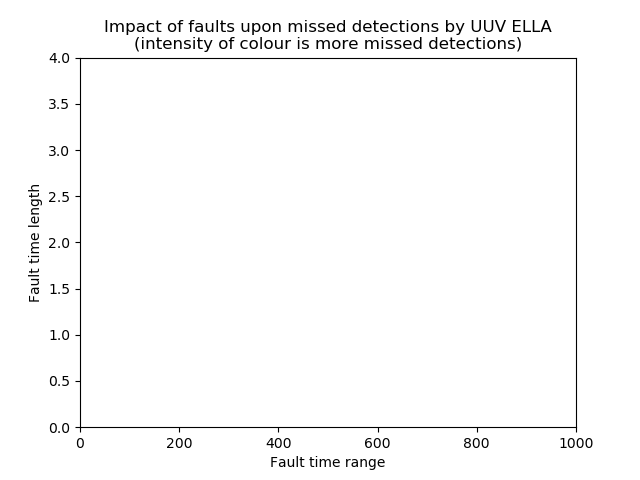
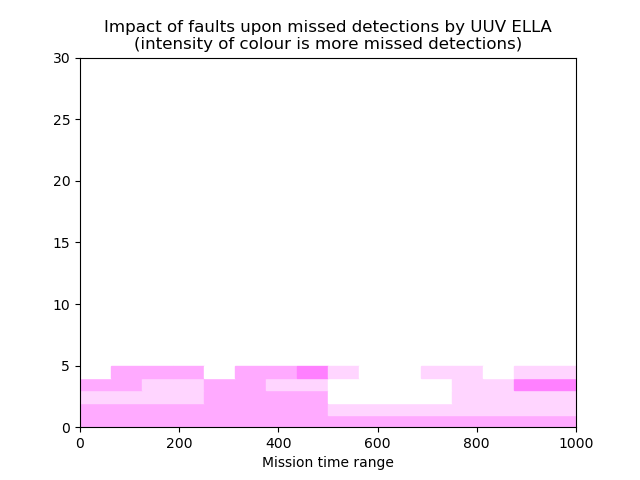
Changes for the avoidance logging, and heading fault

diff --git a/middleware-java/src/atlasdsl/loader/GeneratedDSLLoader.java b/middleware-java/src/atlasdsl/loader/GeneratedDSLLoader.java
@@ -141,7 +141,7 @@ public class GeneratedDSLLoader implements DSLLoader {
 		GoalTemporalConstraints gt1 = new GoalTemporalConstraints(0.0, 1000.0);
 		
 		
-		GoalAction ga1 = new AvoidOthers(3.0);
+		GoalAction ga1 = new AvoidOthers(15.0);
 		
 		
 		GoalRegion grmutualAvoidance = new StaticGoalRegion(
@@ -268,7 +268,7 @@ public class GeneratedDSLLoader implements DSLLoader {
 	
 	FaultImpact fi2;
 	try {	
-		fi2 = new MotionFault(srgilda_3, "UP_HEADING", "heading=153");
+		fi2 = new MotionFault(srella_2, "UP_HEADING", "heading=180");
 	} catch (InvalidComponentType e) {
 		throw new DSLLoadFailed("MotionFault 2 is not using a MotionSource as its affected component");
 	}
@@ -277,7 +277,7 @@ public class GeneratedDSLLoader implements DSLLoader {
 	
 	FaultTimeProperties ft2 = new FaultTimeProperties(0.0, 1000.0, 1000.0, 1, 0.8); 
 	
-	Fault f2 = new Fault("HEADINGFAULT", fi2, Optional.empty(), ft2);
+	Fault f2 = new Fault("HEADINGFAULT-ELLA", fi2, Optional.empty(), ft2);
 	mission.addFault(f2);
 	
 	
@@ -327,6 +327,54 @@ public class GeneratedDSLLoader implements DSLLoader {
 	
 	Fault f5 = new Fault("SPEEDFAULT-HENRY", fi5, Optional.empty(), ft5);
 	mission.addFault(f5);
+	
+	
+	
+	FaultImpact fi6;
+	try {	
+		fi6 = new MotionFault(srfrank_3, "UP_HEADING", "heading=153");
+	} catch (InvalidComponentType e) {
+		throw new DSLLoadFailed("MotionFault 6 is not using a MotionSource as its affected component");
+	}
+	
+	
+	
+	FaultTimeProperties ft6 = new FaultTimeProperties(0.0, 1000.0, 1000.0, 1, 0.8); 
+	
+	Fault f6 = new Fault("HEADINGFAULT-FRANK", fi6, Optional.empty(), ft6);
+	mission.addFault(f6);
+	
+	
+	
+	FaultImpact fi7;
+	try {	
+		fi7 = new MotionFault(srgilda_3, "UP_HEADING", "heading=350");
+	} catch (InvalidComponentType e) {
+		throw new DSLLoadFailed("MotionFault 7 is not using a MotionSource as its affected component");
+	}
+	
+	
+	
+	FaultTimeProperties ft7 = new FaultTimeProperties(0.0, 1000.0, 1000.0, 1, 0.8); 
+	
+	Fault f7 = new Fault("HEADINGFAULT-GILDA", fi7, Optional.empty(), ft7);
+	mission.addFault(f7);
+	
+	
+	
+	FaultImpact fi8;
+	try {	
+		fi8 = new MotionFault(srhenry_3, "UP_HEADING", "heading=153");
+	} catch (InvalidComponentType e) {
+		throw new DSLLoadFailed("MotionFault 8 is not using a MotionSource as its affected component");
+	}
+	
+	
+	
+	FaultTimeProperties ft8 = new FaultTimeProperties(0.0, 1000.0, 1000.0, 1, 0.8); 
+	
+	Fault f8 = new Fault("HEADINGFAULT-HENRY", fi8, Optional.empty(), ft8);
+	mission.addFault(f8);
 	
 	return mission;
 	}

diff --git a/middleware-java/src/atlasdsl/AvoidOthers.java b/middleware-java/src/atlasdsl/AvoidOthers.java
@@ -10,16 +10,30 @@ import middleware.core.ATLASCore;
 public class AvoidOthers extends GoalAction {
 	private double clearance;
 	
+	public class ViolationRecord {
+		private Point loc1;
+		private Point loc2;
+		private Robot r1;
+		private Robot r2;
+		private double clearance;
+		
+		public ViolationRecord(Point loc1, Point loc2, Robot r1, Robot r2, double clearance) {
+			this.loc1 = loc1;
+			this.loc2 = loc2;
+			this.r1 = r1;
+			this.r2 = r2;
+			this.clearance = clearance;
+		}
+		
+	}
+	
 	public AvoidOthers(double clearance) {
 		this.clearance = clearance;
 	}
 
 	// TODO: Specific log for the computation of each goal?
-	private Optional<Double> testDistances(List<Robot> robots) throws MissingProperty {
+	private Optional<ViolationRecord> testDistances(List<Robot> robots) throws MissingProperty {
 		double clearanceSqr = clearance * clearance;
-		//System.out.println("clearanceSqr=" + clearanceSqr);
-		Optional<Robot> failed1;
-		Optional<Robot> failed2;
 		for (Robot r_i : robots) {
 			for (Robot r_j : robots) {
 				if (r_i != r_j) {
@@ -28,9 +42,8 @@ public class AvoidOthers extends GoalAction {
 					double distSqr = loc1.distanceSqrTo(loc2);
 					//System.out.println("loc1 = " + r_i + "loc2 = " + r_j + " dist_sqr = " + distSqr);
 					if (distSqr < clearanceSqr) {
-						failed1 = Optional.of(r_i);
-						failed2 = Optional.of(r_j);
-						return Optional.of(Math.sqrt(distSqr));
+						ViolationRecord vr = new ViolationRecord(loc1, loc2, r_i, r_j);
+						return Optional.of(vr);
 					}
 				}
 			}
@@ -43,8 +56,8 @@ public class AvoidOthers extends GoalAction {
 		try {
 			// If the result is present, that means the clearance
 			// exceeded the minimum allowed 
-			Optional<Double> res = testDistances(robots);
-			if (res.isPresent()) {
+			Optional<Double> vr = testDistances(robots);
+			if (vr.isPresent()) {
 				Double clearanceFound = res.get();
 				// This goal only returns a VIOLATED status, or it returns Empty
 				GoalResult gr = new GoalResult(GoalResultStatus.VIOLATED);

diff --git a/middleware-java/src/moosmapping/PHelmIvpProcess.java b/middleware-java/src/moosmapping/PHelmIvpProcess.java
@@ -38,6 +38,8 @@ public class PHelmIvpProcess extends MOOSProcess {
 		moosBehaviourInitVals.put("RETURN", false);
 		moosBehaviourInitVals.put("STATION_KEEP", false);
 		moosBehaviourInitVals.put("LOITER", true);
+		moosBehaviourInitVals.put("CONSTHEADING", false);
+		
 		// TODO: this should be conditionally set if an avoidance goal is present
 		moosBehaviourInitVals.put("AVOID", true);
 				
@@ -59,8 +61,12 @@ public class PHelmIvpProcess extends MOOSProcess {
 		msd4.setProperty("MODE", "ACTIVE");
 		msd4.setProperty("LOITER", true);
 		setModeProperties.put("LOITERING", msd4);
-	} 
-
+		
+		MOOSSetModeDetails msd5 = new MOOSSetModeDetails("CONSTHEADING");
+		msd5.setProperty("MODE", "ACTIVE");
+		msd5.setProperty("CONSTHEADING", true);
+		setModeProperties.put("CONSTHEADING", msd5);
+	}
 	
 	private void setupBehaviours(String vehicleName, Point startPos) {
 		String startPosAsString = startPos.toString();
@@ -77,5 +83,7 @@ public class PHelmIvpProcess extends MOOSProcess {
 		addBehaviour(new HelmBehaviourAvoidance(this, vehicleName));
 		addBehaviour(new HelmBehaviourStationKeep(this));
 		addBehaviour(new HelmBehaviourWaypoint(this, vehicleName, startPos, waypointSpeed, waypointRadius, waypointNMRadius));
+		addBehaviour(new HelmBehaviourConstantHeading(this));
+		addBehaviour(new HelmBehaviourConstantSpeed(this));
 	}
 }

diff --git a/middleware-java/src/middleware/missionmonitor/MissionMonitor.java b/middleware-java/src/middleware/missionmonitor/MissionMonitor.java
@@ -1,11 +1,13 @@
 package middleware.missionmonitor;
 
+import java.util.HashMap;
 import java.util.Optional;
 
 import atlasdsl.*;
 import atlasdsl.GoalResult.GoalResultStatus;
 import atlassharedclasses.SonarDetection;
 import middleware.core.*;
+import middleware.logging.ATLASLog;
 
 public class MissionMonitor {
 	private class MissionMonitorSetupFailure extends Exception {
@@ -14,6 +16,7 @@ public class MissionMonitor {
 	
 	private Mission mission;
 	private ATLASCore core;
+	private HashMap<Goal,Double> violationsTime = new HashMap<Goal,Double>(); 
 	
 	public MissionMonitor(ATLASCore core, Mission mission) {
 		this.mission = mission;	
@@ -60,9 +63,13 @@ public class MissionMonitor {
 					// so it can be referenced by the dependent goals
 					g.registerResult(gr);
 					
-//					System.out.println("res = " + res.get());
 					if (gr.getResultStatus() == GoalResultStatus.VIOLATED) {
 						g.setStatus(GoalStatus.VIOLATED);
+						if (!violationsTime.containsKey(g)) {
+							violationsTime.put(g,timeNow);
+							GoalAction ga = g.getAction();
+							ATLASLog.logGoalMessage(ga, "VIOLATED," + Double.toString(timeNow) + "," + );
+						}
 					}
 					
 					if (gr.getResultStatus() == GoalResultStatus.COMPLETED) {

diff --git a/results/plots/plot_all_robots_faultintensity.py b/results/plots/plot_all_robots_faultintensity.py
@@ -20,21 +20,27 @@ starts = my_data[:,2]
 ends = my_data[:,3]
 lengths = ends - starts
 
+max_len = 1000
+
 # Need to create a rectange for each of the fault definitions at starts and ends
 
 fig,ax  = plt.subplots(1)
 
+ypos = 0
 for i in range(0,len(index)):
     v_for_cell = counts[i] / 6
     flines = np.where(fault_nums==i)
     fline = flines[0][0]
-    rect = Rectangle((starts[fline],lengths[fline]),i,1, color=(1,v_for_cell,1))
+    end_this_rect = starts[fline] + lengths[fline]
+    # Need to increment ypos when the end of the line is reached
+    rect = Rectangle((starts[fline],ypos),lengths[fline],1, color=(1,v_for_cell,1), edgecolor="Black")
+    if (end_this_rect >= max_len):
+        ypos+=1;
     ax.add_patch(rect)
     # How to set the colour
 
-plt.ylim(0,4);
+plt.ylim(0,30);
 plt.xlim(0,1000);
-plt.xlabel("Fault time range");
-plt.ylabel("Fault time length");
+plt.xlabel("Mission time range");
 plt.title("Impact of faults upon missed detections by UUV " + sys.argv[2] + "\n(intensity of colour is more missed detections)");
 plt.savefig("coverage_singlefault_" + sys.argv[2]);

diff --git a/middleware-java/src/atlassharedclasses/FaultInstance.java b/middleware-java/src/atlassharedclasses/FaultInstance.java
@@ -4,7 +4,7 @@ import java.util.Optional;
 
 import atlasdsl.faults.*;
 
-public class FaultInstance {
+public class FaultInstance implements Comparable<FaultInstance> {
 	private double startTime;
 	private double endTime;
 	private Fault fault;
@@ -28,6 +28,17 @@ public class FaultInstance {
 			MotionFault mfi2 = (MotionFault)f.getImpact();
 			System.out.println("test newValue changed = " + mfi2.getNewValue());
 		}
+	}
+	
+	public int compareTo(FaultInstance other) {
+		int timeCompare = Double.compare(this.startTime, other.startTime);
+		if (timeCompare != 0) {
+			return timeCompare;
+		} else {
+			int idCompare = this.fault.getName().compareTo(other.fault.getName());
+			return idCompare;
+		}
+		
 	}
 	
 	public String toString() {

diff --git a/middleware-java/src/atlascarsgenerator/MOOSCodeGen.java b/middleware-java/src/atlascarsgenerator/MOOSCodeGen.java
@@ -62,7 +62,7 @@ public class MOOSCodeGen extends CARSCodeGen {
 		// Names of variables to be shared via pShare
 		List<String> moosSharedVars = new ArrayList<String>();
 		List<String> middlewareVars = varsForMissionGoals(mission);
-		List<String> collectiveIntelVars = varsForCI(mission); 
+		List<String> collectiveIntelVars = varsForCI(mission);
 		
 		int atlasPort = 61613;
 		try {
